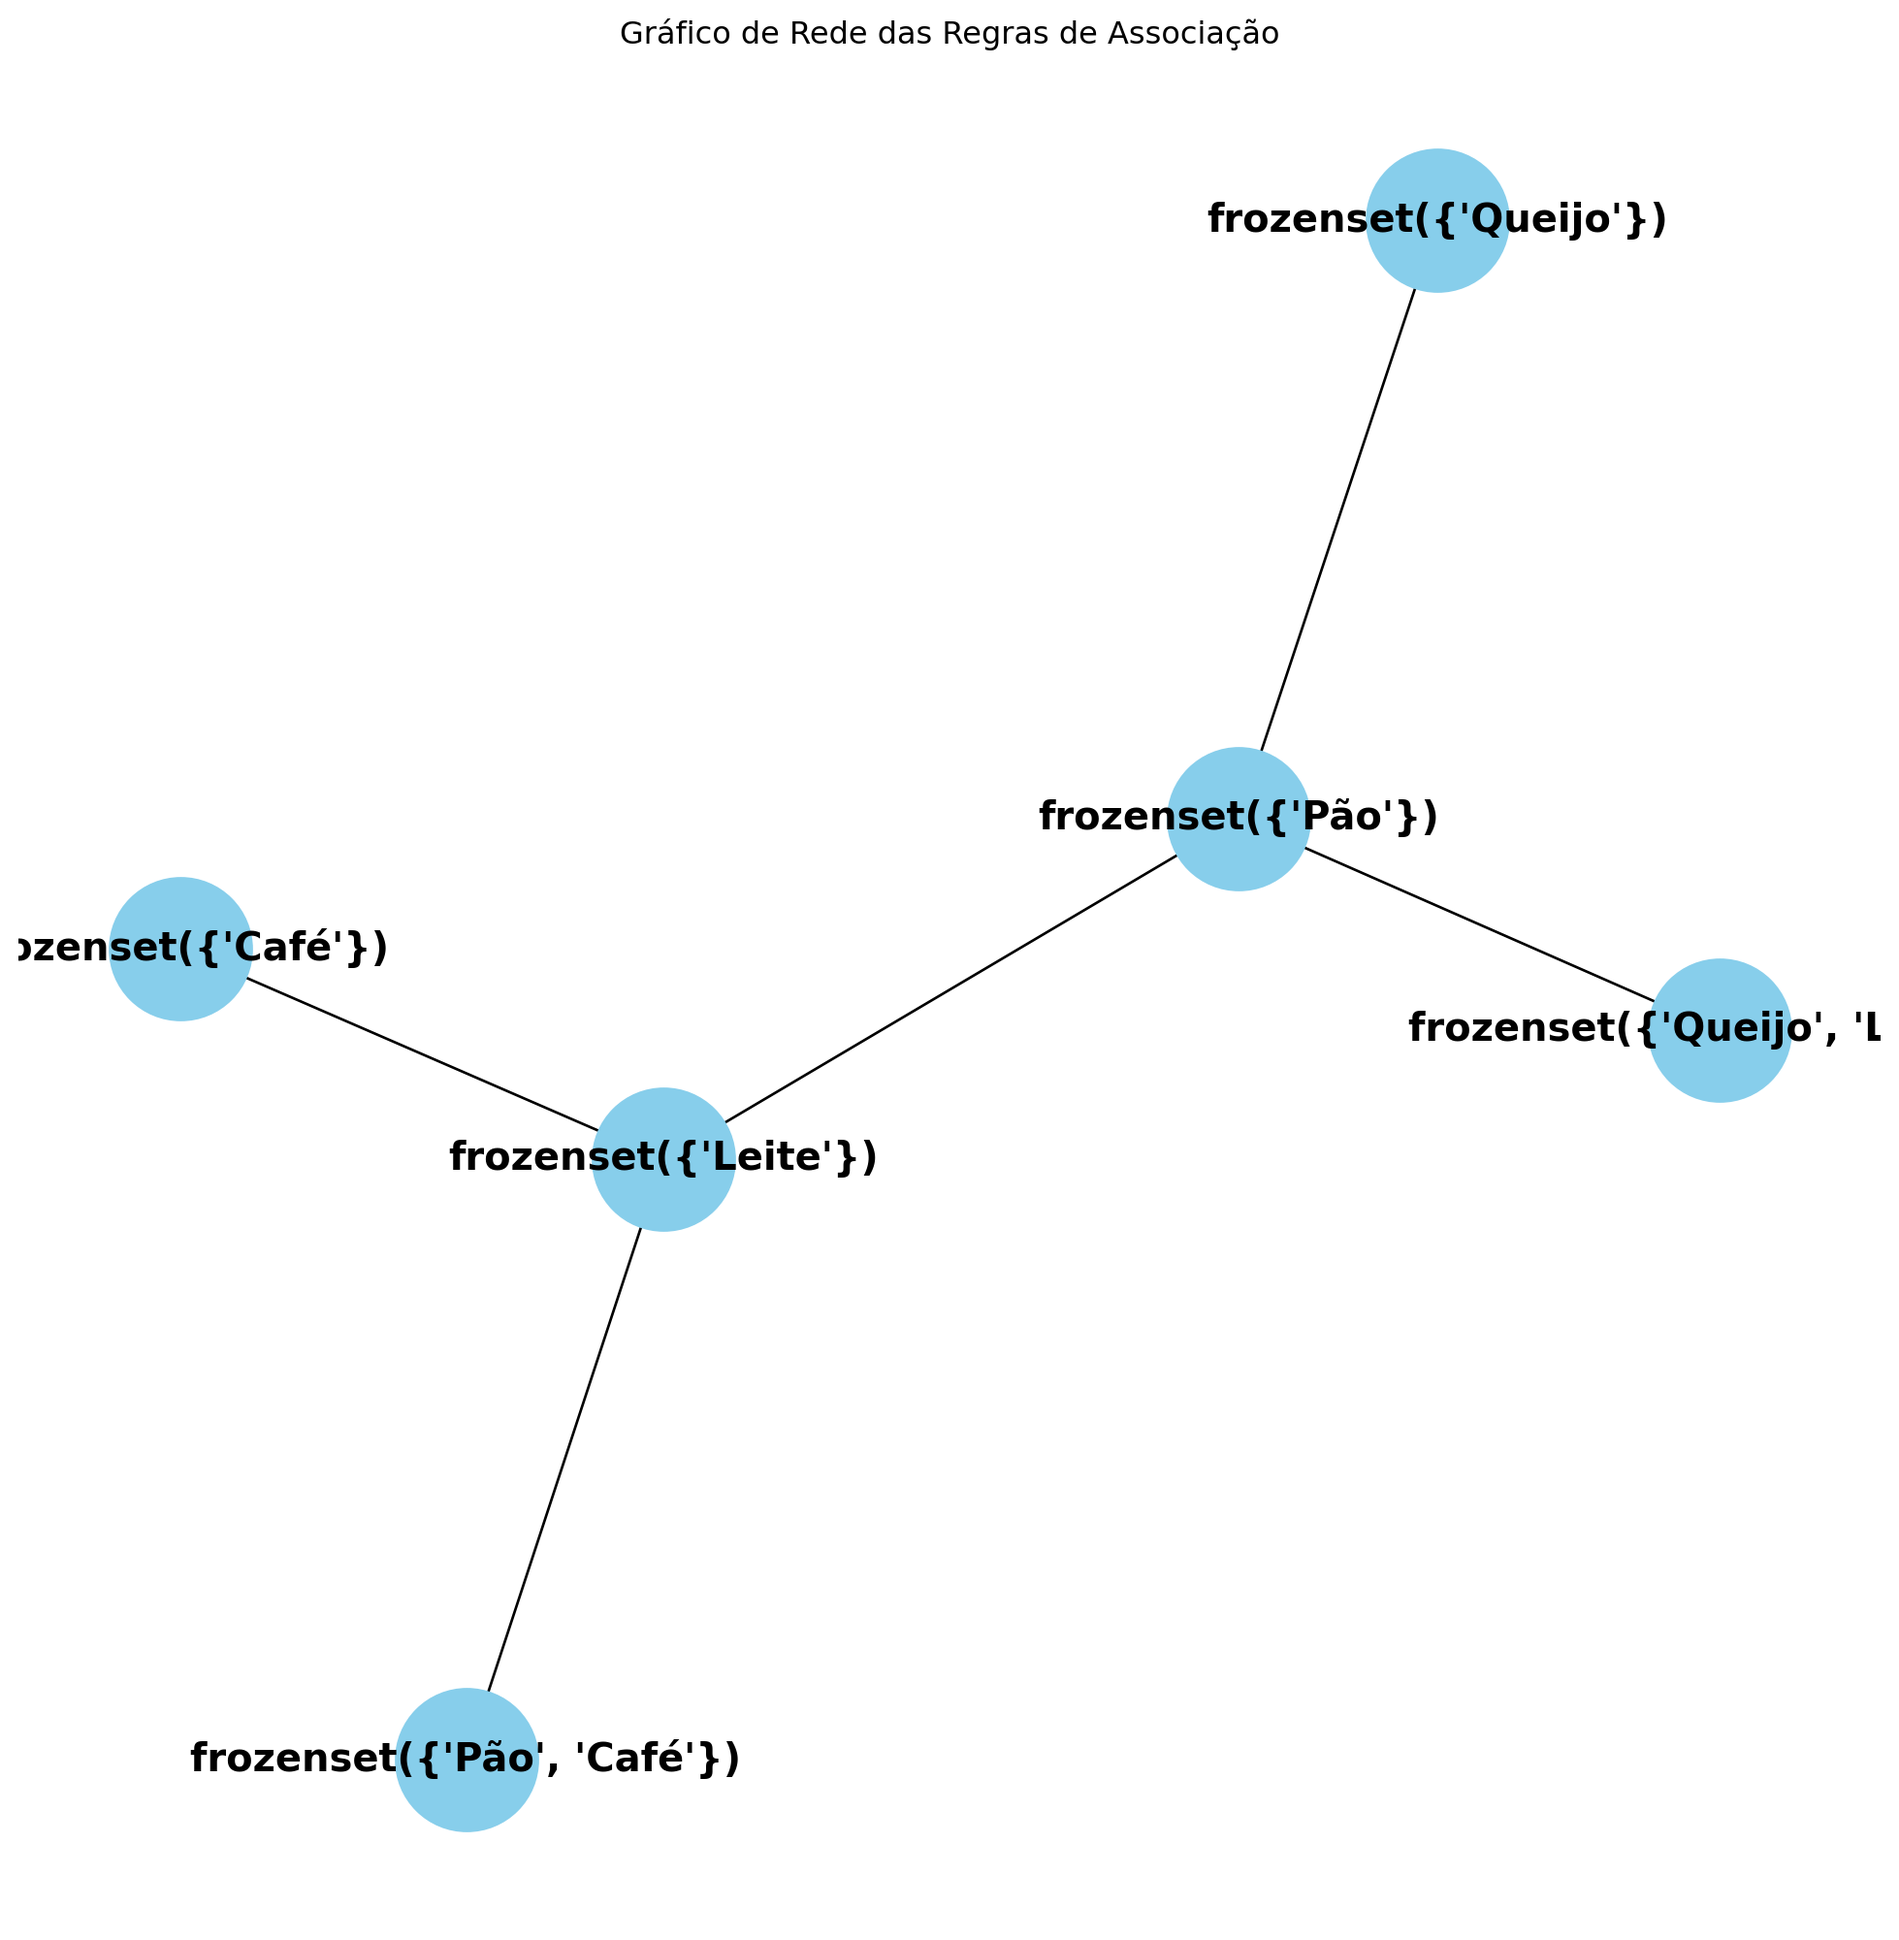
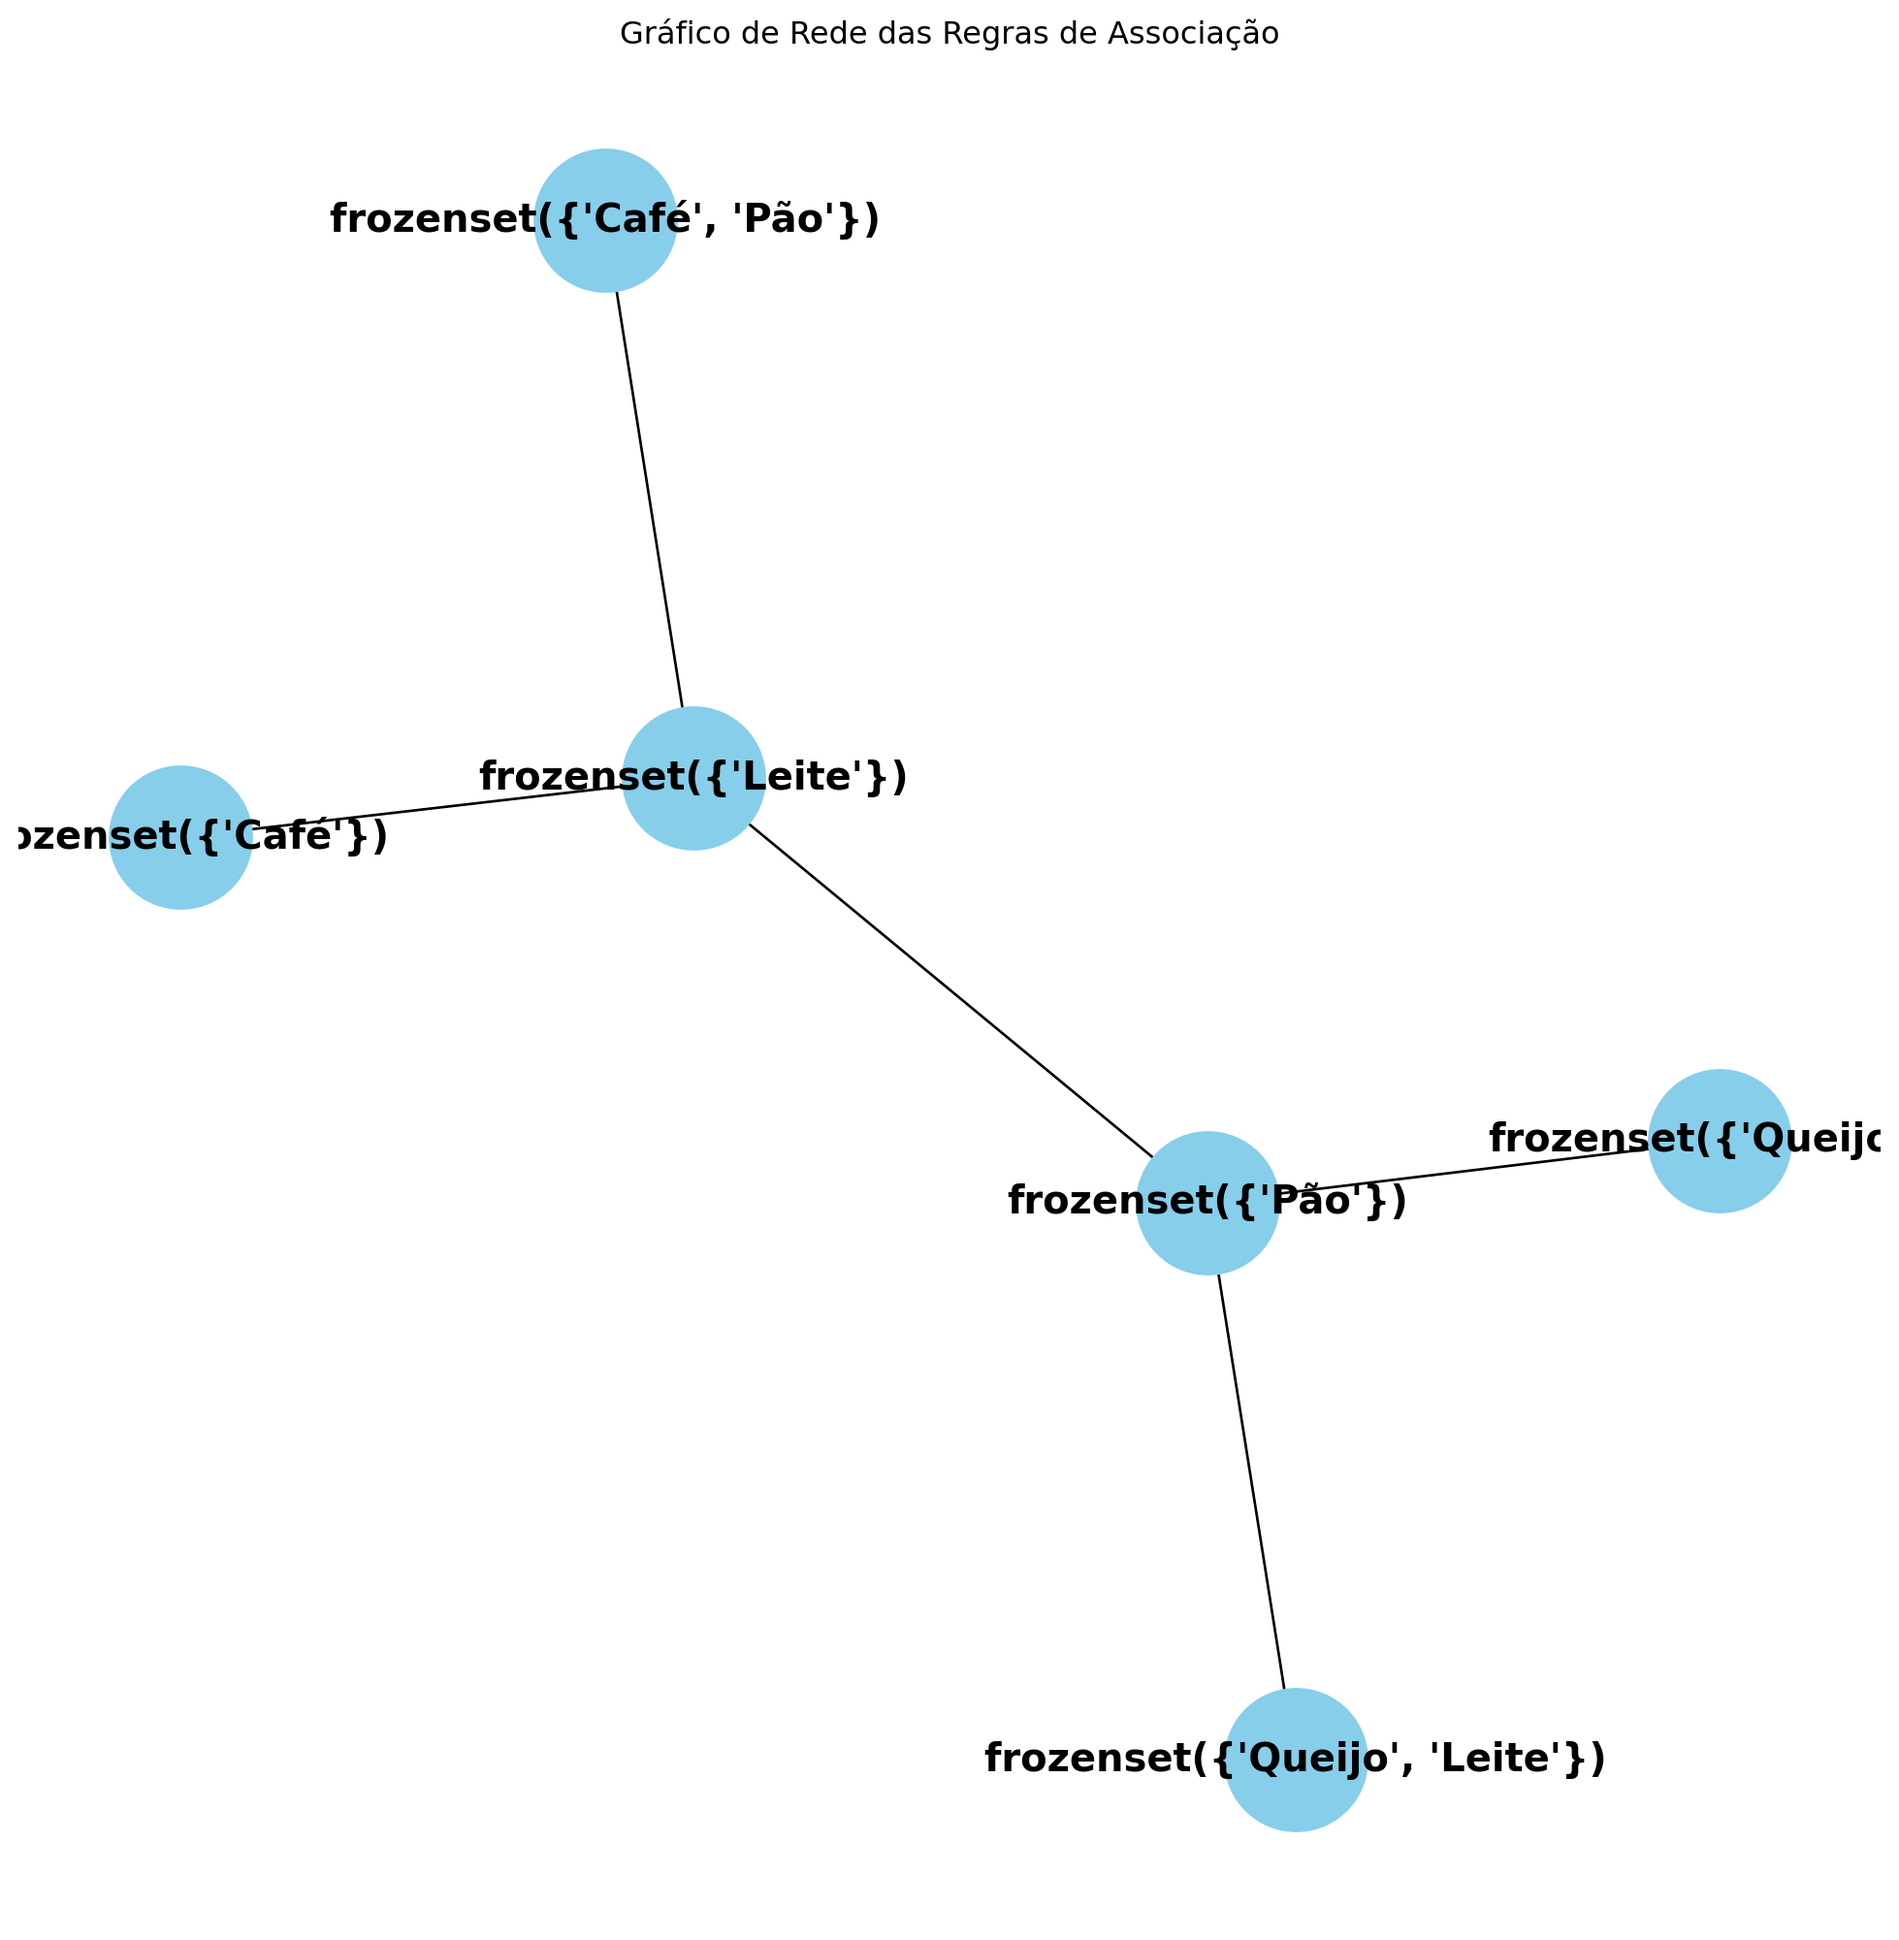
novo post

diff --git a/docs/posts/Análise de Cesta de Compras: Revelando Padrões de Consumo com Python/index.html b/docs/posts/Análise de Cesta de Compras: Revelando Padrões de Consumo com Python/index.html
@@ -271,7 +271,7 @@ pre > code.sourceCode > span > a:first-child::before { text-decoration: underlin
 <section id="implementação-do-algoritmo-apriori-em-python" class="level4">
 <h4 class="anchored" data-anchor-id="implementação-do-algoritmo-apriori-em-python">Implementação do Algoritmo Apriori em Python</h4>
 <p>Para implementar o algoritmo Apriori em Python, utilizamos a biblioteca <strong>Mlxtend</strong> <sup><a href="#ref4">4</a></sup> . Veja um exemplo prático:</p>
-<div id="f74a78b3" class="cell" data-execution_count="1">
+<div id="f0044635" class="cell" data-execution_count="1">
 <div class="sourceCode cell-code" id="cb1"><pre class="sourceCode python code-with-copy"><code class="sourceCode python"><span id="cb1-1"><a href="#cb1-1" aria-hidden="true" tabindex="-1"></a><span class="im">import</span> pandas <span class="im">as</span> pd</span>
 <span id="cb1-2"><a href="#cb1-2" aria-hidden="true" tabindex="-1"></a><span class="im">from</span> mlxtend.frequent_patterns <span class="im">import</span> apriori, association_rules</span>
 <span id="cb1-3"><a href="#cb1-3" aria-hidden="true" tabindex="-1"></a></span>
@@ -300,8 +300,8 @@ pre > code.sourceCode > span > a:first-child::before { text-decoration: underlin
 3          (Leite)            (Pão)                 0.6                 0.6   
 4         (Queijo)            (Pão)                 0.6                 0.6   
 5            (Pão)         (Queijo)                 0.6                 0.6   
-6      (Pão, Café)          (Leite)                 0.2                 0.6   
-7          (Leite)      (Pão, Café)                 0.6                 0.2   
+6      (Café, Pão)          (Leite)                 0.2                 0.6   
+7          (Leite)      (Café, Pão)                 0.6                 0.2   
 8  (Queijo, Leite)            (Pão)                 0.2                 0.6   
 9            (Pão)  (Queijo, Leite)                 0.6                 0.2   
 
@@ -349,7 +349,7 @@ DataFrames with non-bool types result in worse computationalperformance and thei
 <p>Bibliotecas como <strong>NetworkX</strong> e <strong>Plotly</strong> permitem criar representações visuais dos dados de associação, tornando os padrões de consumo mais evidentes. Saiba mais sobre o <strong>NetworkX</strong> <a href="https://jandersolutions.github.io/jandersolutions/posts/Visualizando%20Redes%20Complexas%20com%20NetworkX/">aqui</a></p>
 <section id="exemplo-de-visualização-com-networkx" class="level4">
 <h4 class="anchored" data-anchor-id="exemplo-de-visualização-com-networkx">Exemplo de Visualização com NetworkX</h4>
-<div id="c33ac5a9" class="cell" data-execution_count="2">
+<div id="f34bae81" class="cell" data-execution_count="2">
 <div class="sourceCode cell-code" id="cb4"><pre class="sourceCode python code-with-copy"><code class="sourceCode python"><span id="cb4-1"><a href="#cb4-1" aria-hidden="true" tabindex="-1"></a><span class="im">import</span> matplotlib.pyplot <span class="im">as</span> plt</span>
 <span id="cb4-2"><a href="#cb4-2" aria-hidden="true" tabindex="-1"></a><span class="im">import</span> networkx <span class="im">as</span> nx</span>
 <span id="cb4-3"><a href="#cb4-3" aria-hidden="true" tabindex="-1"></a></span>
@@ -391,6 +391,7 @@ DataFrames with non-bool types result in worse computationalperformance and thei
 <section id="como-citar-este-artigo" class="level3">
 <h3 class="anchored" data-anchor-id="como-citar-este-artigo">Como citar este artigo</h3>
 <p>Se você deseja citar este artigo, pode usar o BibTeX abaixo:</p>
+<p>```{bibtex}</p>
 <p><span class="citation" data-cites="article">@article</span>{abreu2024otimizando, title={Otimizando a Gestão de Preços no Varejo com Python}, author={Abreu, Janderson Batista}, year={2024}, url={https://jandersolutions.github.io/jandersolutions/posts/Otimizando%20a%20Gest%C3%A3o%20de%20Pre%C3%A7os%20no%20Varejo%20com%20Python/}, note={Acesso em: 24 out. 2024}, institution={Anhanguera Educacional}, keywords={ciência de dados, otimização de preços, varejo, Python} }</p>
 
 
@@ -962,6 +963,10 @@ window.document.addEventListener("DOMContentLoaded", function (event) {
   }
 });
 </script>
+<script src="https://giscus.app/client.js" data-repo="Jandersolutions/jandersolutions" data-repo-id="R_kgDOIrGiqg" data-category="General" data-category-id="DIC_kwDOIrGiqs4CjppG" data-mapping="pathname" data-reactions-enabled="1" data-emit-metadata="0" data-input-position="top" data-theme="preferred_color_scheme" data-lang="pt-br" crossorigin="anonymous" async="">
+</script>
+<input type="hidden" id="giscus-base-theme" value="preferred_color_scheme">
+<input type="hidden" id="giscus-alt-theme" value="preferred_color_scheme">
 </div> <!-- /content -->
 <footer class="footer">
   <div class="nav-footer">

diff --git a/docs/index.html b/docs/index.html
@@ -378,7 +378,7 @@ Janderson B Abreu
 </div>
 </a>
 </div>
-<div class="g-col-1" data-index="4" data-categories="Análise de Dados,Análise de Vendas,Varejo e Atacado" data-listing-date-sort="1729566000000" data-listing-file-modified-sort="1729770828649" data-listing-date-modified-sort="NaN" data-listing-reading-time-sort="5" data-listing-word-count-sort="995">
+<div class="g-col-1" data-index="4" data-categories="Análise de Dados,Análise de Vendas,Varejo e Atacado" data-listing-date-sort="1729566000000" data-listing-file-modified-sort="1729773113890" data-listing-date-modified-sort="NaN" data-listing-reading-time-sort="5" data-listing-word-count-sort="995">
 <a href="./posts/Análise de Cesta de Compras: Revelando Padrões de Consumo com Python/index.html" class="quarto-grid-link">
 <div class="quarto-grid-item card h-100 card-left">
 <p class="card-img-top">
